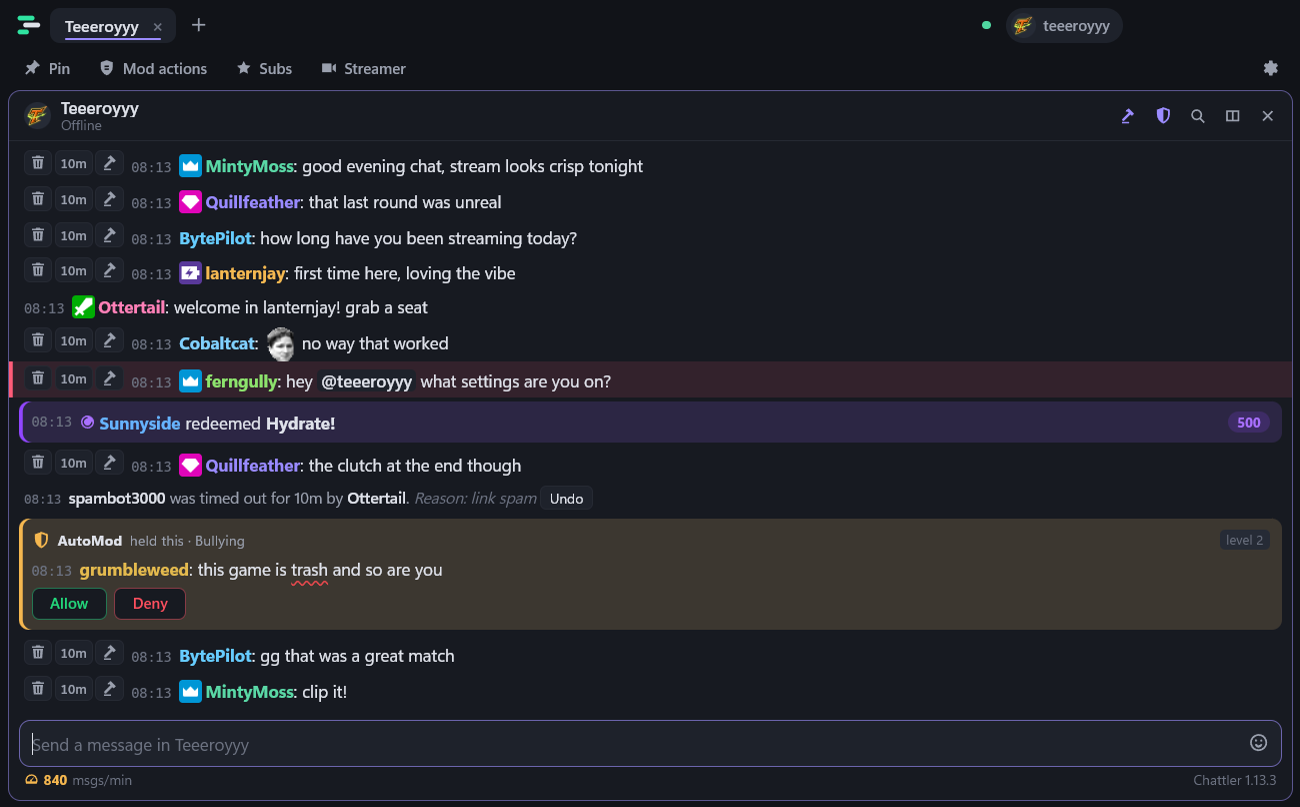
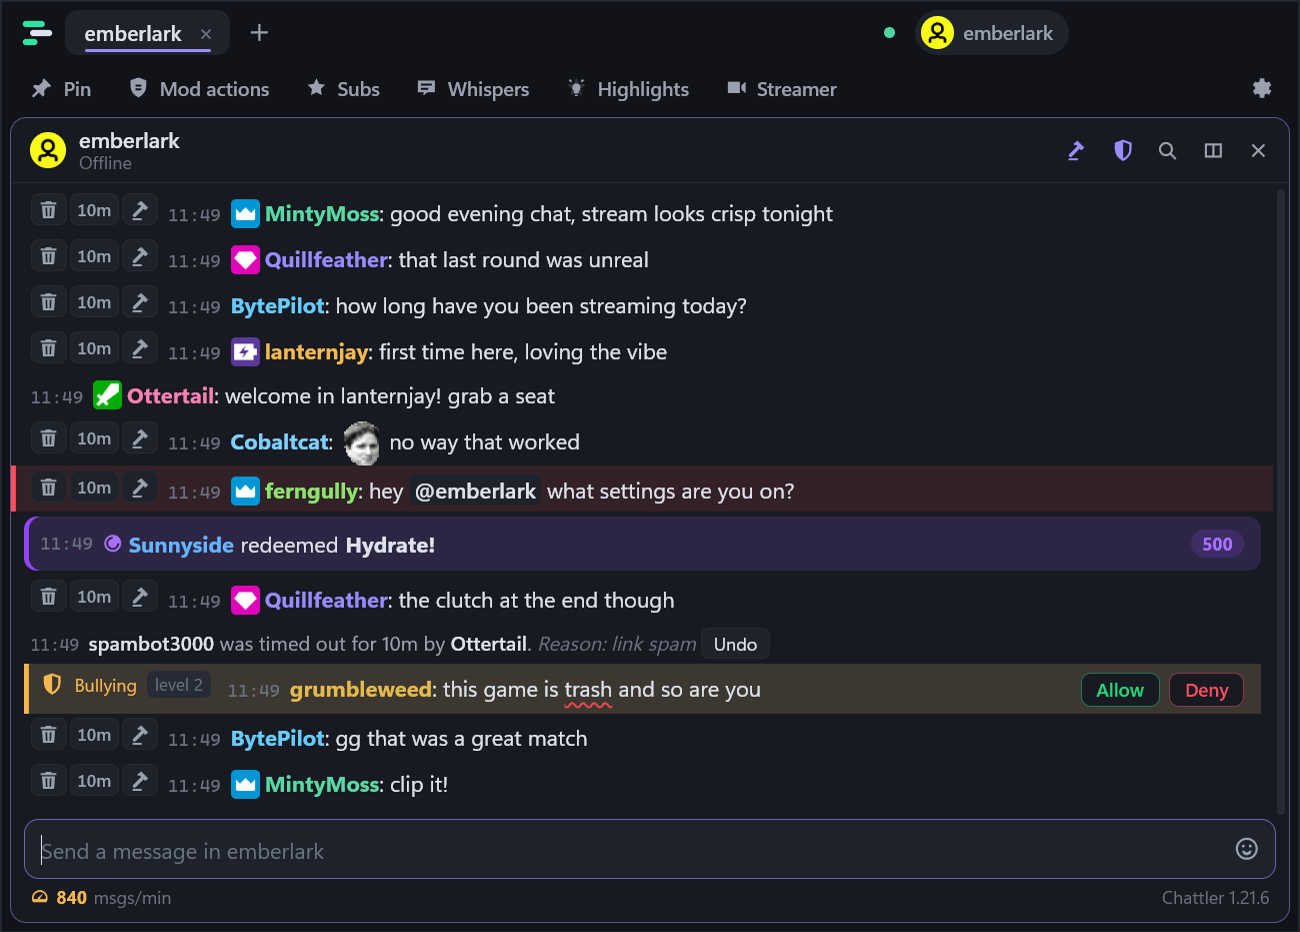
Update website

diff --git a/docs/screenshots/index.html b/docs/screenshots/index.html
@@ -49,14 +49,14 @@
 
   <figure class="shot wide">
     <a href="../assets/shots/chat.png" target="_blank" rel="noopener">
-      <img src="../assets/shots/chat.png" alt="Chattler's main window: tabs at the top, the toolbar with Pin, Mod actions, Subs and Streamer, a busy chat with moderation buttons on each line, and the chat meter under the message box." width="1300" height="807">
+      <img src="../assets/shots/chat.png" alt="Chattler's main window: tabs at the top, the toolbar with Pin, Mod actions, Subs, Whispers, Highlights and Streamer, a busy chat with moderation buttons on each line, and the chat meter under the message box." width="1300" height="932">
     </a>
     <figcaption><b>Chat</b> Tabs, the toolbar, per-message moderation buttons, a channel point redemption, a timeout naming the moderator, an AutoMod held message with Allow and Deny, and the chat meter under the message box.</figcaption>
   </figure>
 
   <figure class="shot wide">
     <a href="../assets/shots/splits.png" target="_blank" rel="noopener">
-      <img src="../assets/shots/splits.png" alt="Two Twitch chats side by side in one Chattler tab, each with its own messages-per-minute meter under its message box." width="1300" height="807" loading="lazy">
+      <img src="../assets/shots/splits.png" alt="Two Twitch chats side by side in one Chattler tab, each with its own messages-per-minute meter under its message box." width="1300" height="932" loading="lazy">
     </a>
     <figcaption><b>Splits</b> Watch several chats side by side in one tab, each with its own chat meter. Drag the divider to resize, drag a chat's header to move it to another tab.</figcaption>
   </figure>
@@ -64,13 +64,13 @@
   <div class="shot-row">
     <figure class="shot">
       <a href="../assets/shots/usercard-messages.png" target="_blank" rel="noopener">
-        <img src="../assets/shots/usercard-messages.png" alt="A user card showing someone's recent messages, with moderation buttons below." width="528" height="1028" loading="lazy">
+        <img src="../assets/shots/usercard-messages.png" alt="A user card showing someone's recent messages, with moderation buttons below." width="525" height="800" loading="lazy">
       </a>
       <figcaption><b>User card</b> Their recent messages, Monitor user, and one-click timeouts, ban, unban and warn - with a reason.</figcaption>
     </figure>
     <figure class="shot">
       <a href="../assets/shots/usercard-staff.png" target="_blank" rel="noopener">
-        <img src="../assets/shots/usercard-staff.png" alt="The Staff history tab of a user card: current standing, totals, and each past action with the moderator and reason." width="528" height="1028" loading="lazy">
+        <img src="../assets/shots/usercard-staff.png" alt="The Staff history tab of a user card: current standing, totals, and each past action with the moderator and reason." width="525" height="800" loading="lazy">
       </a>
       <figcaption><b>Staff history</b> Every timeout, ban, deletion and warning for that person - who did it, when and why - shared with your mod team.</figcaption>
     </figure>
@@ -78,7 +78,7 @@
 
   <figure class="shot wide">
     <a href="../assets/shots/suspicious.png" target="_blank" rel="noopener">
-      <img src="../assets/shots/suspicious.png" alt="Chat showing a monitored user's message tinted red and a restricted user's hidden message shown to moderators only." width="1300" height="807" loading="lazy">
+      <img src="../assets/shots/suspicious.png" alt="Chat showing a monitored user's message tinted red and a restricted user's hidden message shown to moderators only." width="1300" height="932" loading="lazy">
     </a>
     <figcaption><b>Suspicious users</b> Monitored people stand out in red. A restricted person's message never reaches chat, so moderators see it on a card with Monitor, Restrict and No restrictions.</figcaption>
   </figure>
@@ -107,7 +107,7 @@
     </figure>
     <figure class="shot">
       <a href="../assets/shots/settings.png" target="_blank" rel="noopener">
-        <img src="../assets/shots/settings.png" alt="Chattler's settings: account, theme, text size, timestamps, badges and background transparency." width="1300" height="807" loading="lazy">
+        <img src="../assets/shots/settings.png" alt="Chattler's settings: account, theme, text size, timestamps, badges and background transparency." width="1300" height="932" loading="lazy">
       </a>
       <figcaption><b>Settings</b> Themes, text size, timestamps, badges, transparency, highlight words, AutoMod alerts and which emote providers are on.</figcaption>
     </figure>

diff --git a/docs/index.html b/docs/index.html
@@ -177,7 +177,7 @@
     <figure class="hero-shot">
       <div class="window">
         <div class="window-bar"><i></i><i></i><i></i></div>
-        <img src="assets/screenshot.png" alt="Chattler showing a busy chat with a channel point redemption, a timeout naming the moderator, and an AutoMod held message with Allow and Deny buttons." width="1300" height="807">
+        <img src="assets/screenshot.png" alt="Chattler showing a busy chat with a channel point redemption, a timeout naming the moderator, and an AutoMod held message with Allow and Deny buttons." width="1300" height="932">
       </div>
       <figcaption>Redemptions, who-timed-out-who, and AutoMod - right in the chat.</figcaption>
     </figure>
@@ -252,18 +252,18 @@
       <ul class="uc-points">
         <li><b>Their recent messages</b> in this chat, with deleted ones struck through.</li>
         <li><b>Staff history</b> - every timeout, ban, deletion and warning, who did it, when and why. Kept between sessions.</li>
-        <li><b>Where they stand right now</b>, like “Timed out until 05:42 - by Teeeroyyy”.</li>
+        <li><b>Where they stand right now</b>, like “Timed out until 05:42 - by Ottertail”.</li>
         <li><b>Moderate from the card</b>: timeouts from a purge to two weeks, ban, unban and warn, with a reason.</li>
         <li><b>Monitor user</b> colours their messages so you can keep an eye on them.</li>
       </ul>
     </div>
     <div class="uc-shots">
       <figure>
-        <img src="assets/card-messages.png" alt="A user card for grumbleweed on the Messages tab, listing their recent chat messages with one deleted message struck through, and moderation buttons below." width="528" height="1028" loading="lazy">
+        <img src="assets/card-messages.png" alt="A user card for grumbleweed on the Messages tab, listing their recent chat messages with one deleted message struck through, and moderation buttons below." width="525" height="800" loading="lazy">
         <figcaption>Messages</figcaption>
       </figure>
       <figure>
-        <img src="assets/card-staff.png" alt="The same user card on the Staff history tab: currently timed out, two timeouts, a deleted message and a warning, each with the moderator, reason and date." width="528" height="1028" loading="lazy">
+        <img src="assets/card-staff.png" alt="The same user card on the Staff history tab: currently timed out, two timeouts, a deleted message and a warning, each with the moderator, reason and date." width="525" height="800" loading="lazy">
         <figcaption>Staff history</figcaption>
       </figure>
     </div>
